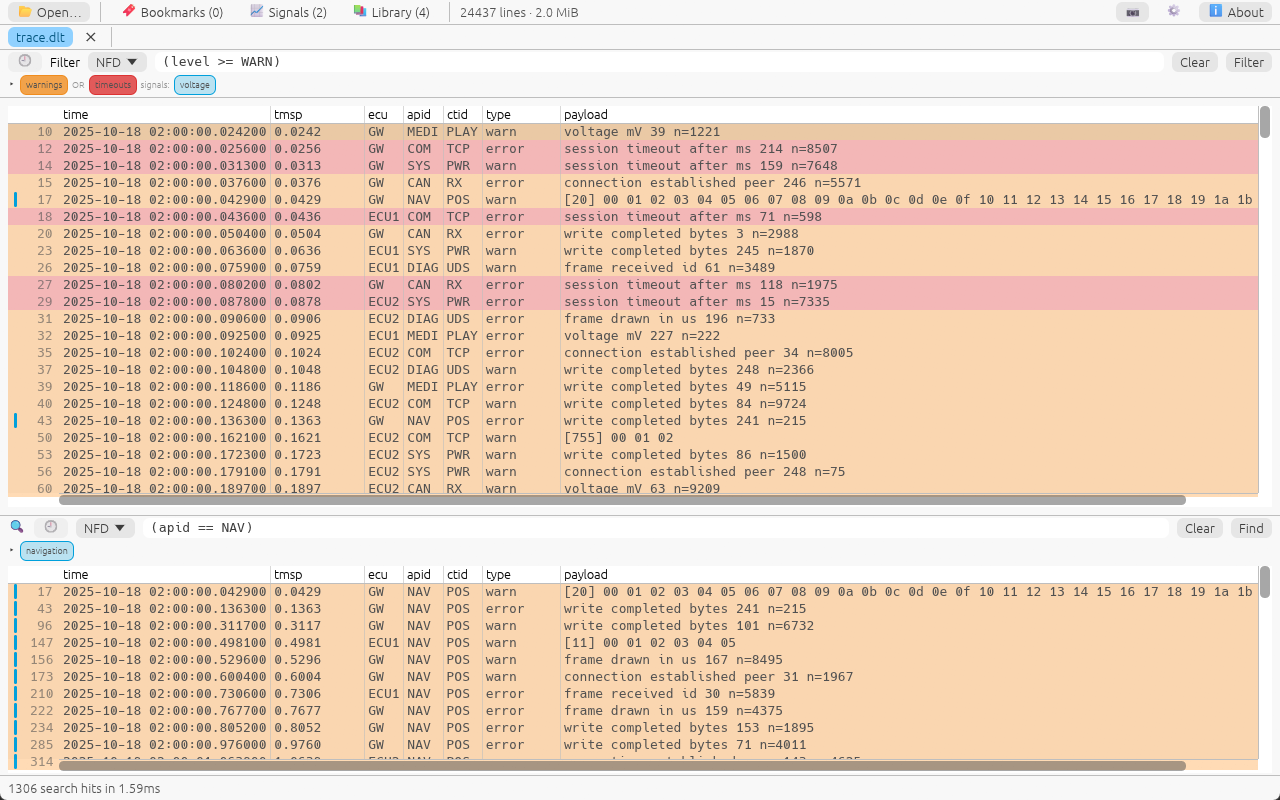
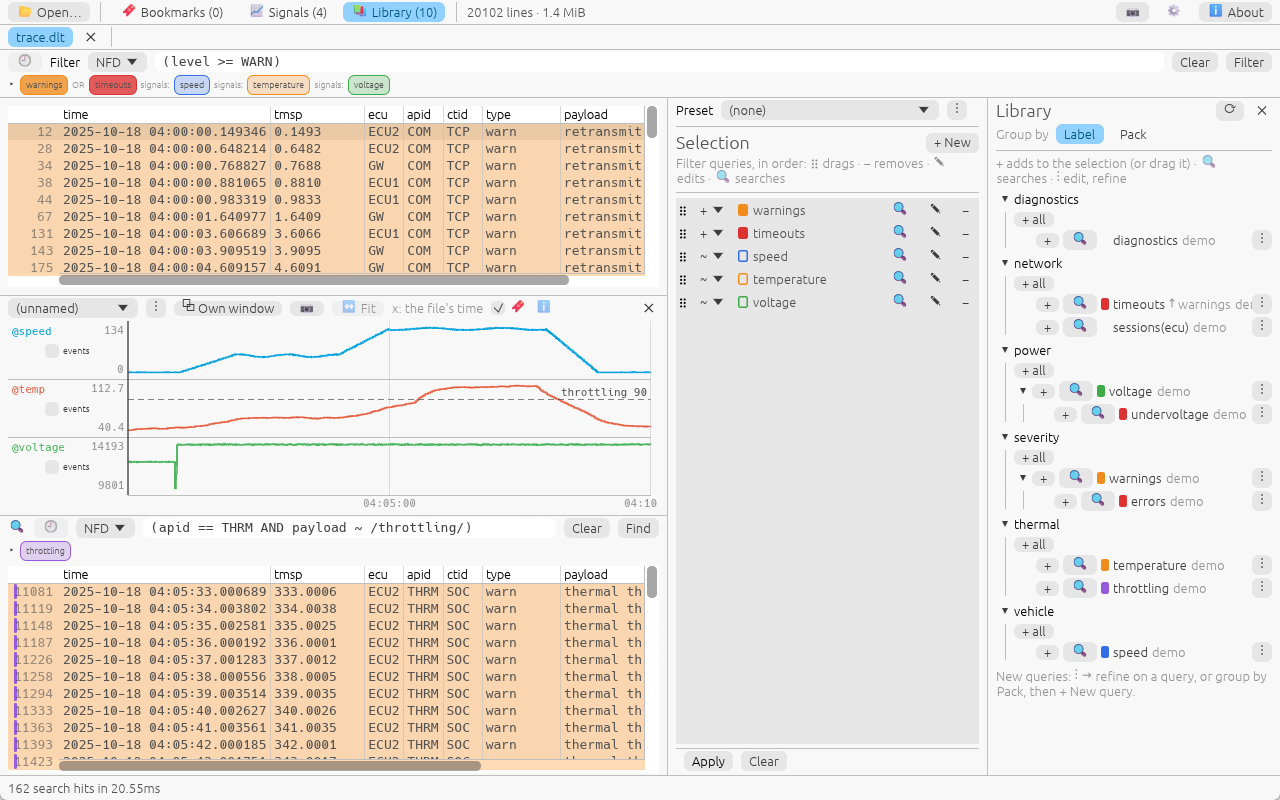
README: a screenshot with the library, signals and a plot
The screenshot now shows what sets nerka apart: picks from a query
pack in the library and selection panes, three signals plotted against
the filtered warnings (with a threshold marker) and a search in the
bottom pane. Synthetic data (a 10-minute drive written as DLT), an
empty config folder.

diff --git a/README.md b/README.md
@@ -10,7 +10,7 @@ your logs carry. Everything runs locally, with no backend: a desktop viewer
 (`nerka-gui`) and a command-line tool (`nerka`) on one UI-free engine
 (`nerka-core`).
 
-![nerka showing a DLT trace: a filter for warnings with timeouts coloured red, and a search for one application in the bottom pane](doc/img/nerka.png)
+![nerka on a synthetic DLT drive: warnings filtered from a query pack, speed, temperature and battery voltage plotted with a throttling threshold, throttling messages found in the bottom pane, and the library and selection panes on the right](doc/img/nerka.png)
 
 > Status: **0.1.0**, the first public release. Windows is the main
 > platform; Linux builds come from CI; macOS isn't built yet. While nerka is
